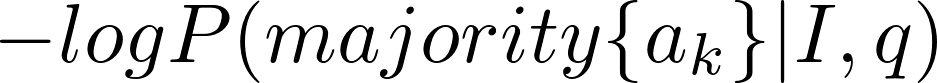
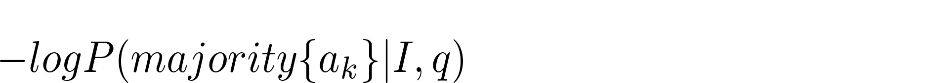
loss2

Changed region(s): [[0.0, 0.0, 1.0, 1.0], [0.4333, 0.0723, 0.4642, 0.1687]]

diff --git a/README.md b/README.md
@@ -130,7 +130,7 @@ One major dubiousness is the loss that the references have used. The paper on St
 We believe there might be a problematic artifact with this. Suppose if for an image-question pair, 8 of the 10 ground truth labels say 'Yes' and 2 of the 10 say 'No', then the issue will be that the probability of 'Yes' predicted by the model won't go above a threshold. Since for high p_yes values, 8/10(-log p) will be low but 2/10(-log(1-p)) will be too high, and this will send a gradient signal back to decrease the value of p. This might serve the purpose of avoiding too confident predictions, but the problem is that the confidence doesn't rise to that too high range from the beginning! We implemented this loss but it didn't work, as shown in the training curves of SAN.
 
 We also tried to modify it to :
-![plot](https://github.com/abhigoyal1997/CS-763-Project/blob/master/images/loss2.png=400X100)
+![plot](https://github.com/abhigoyal1997/CS-763-Project/blob/master/images/loss2.png)
 But that also didn't perform very well.
 
 ## References
